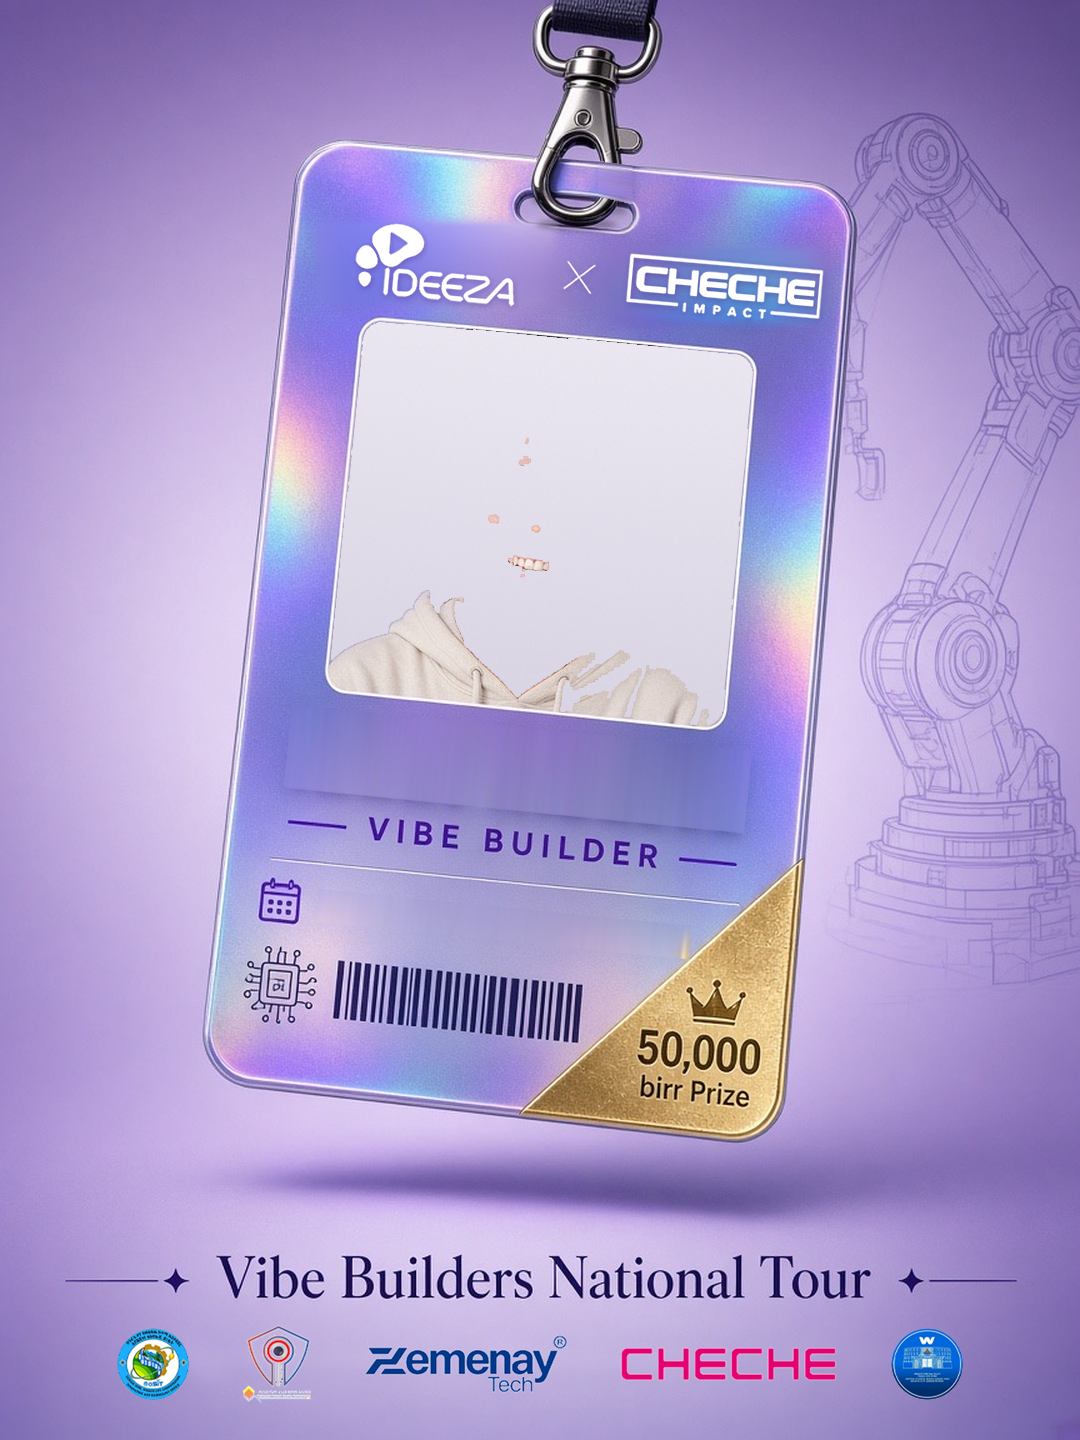
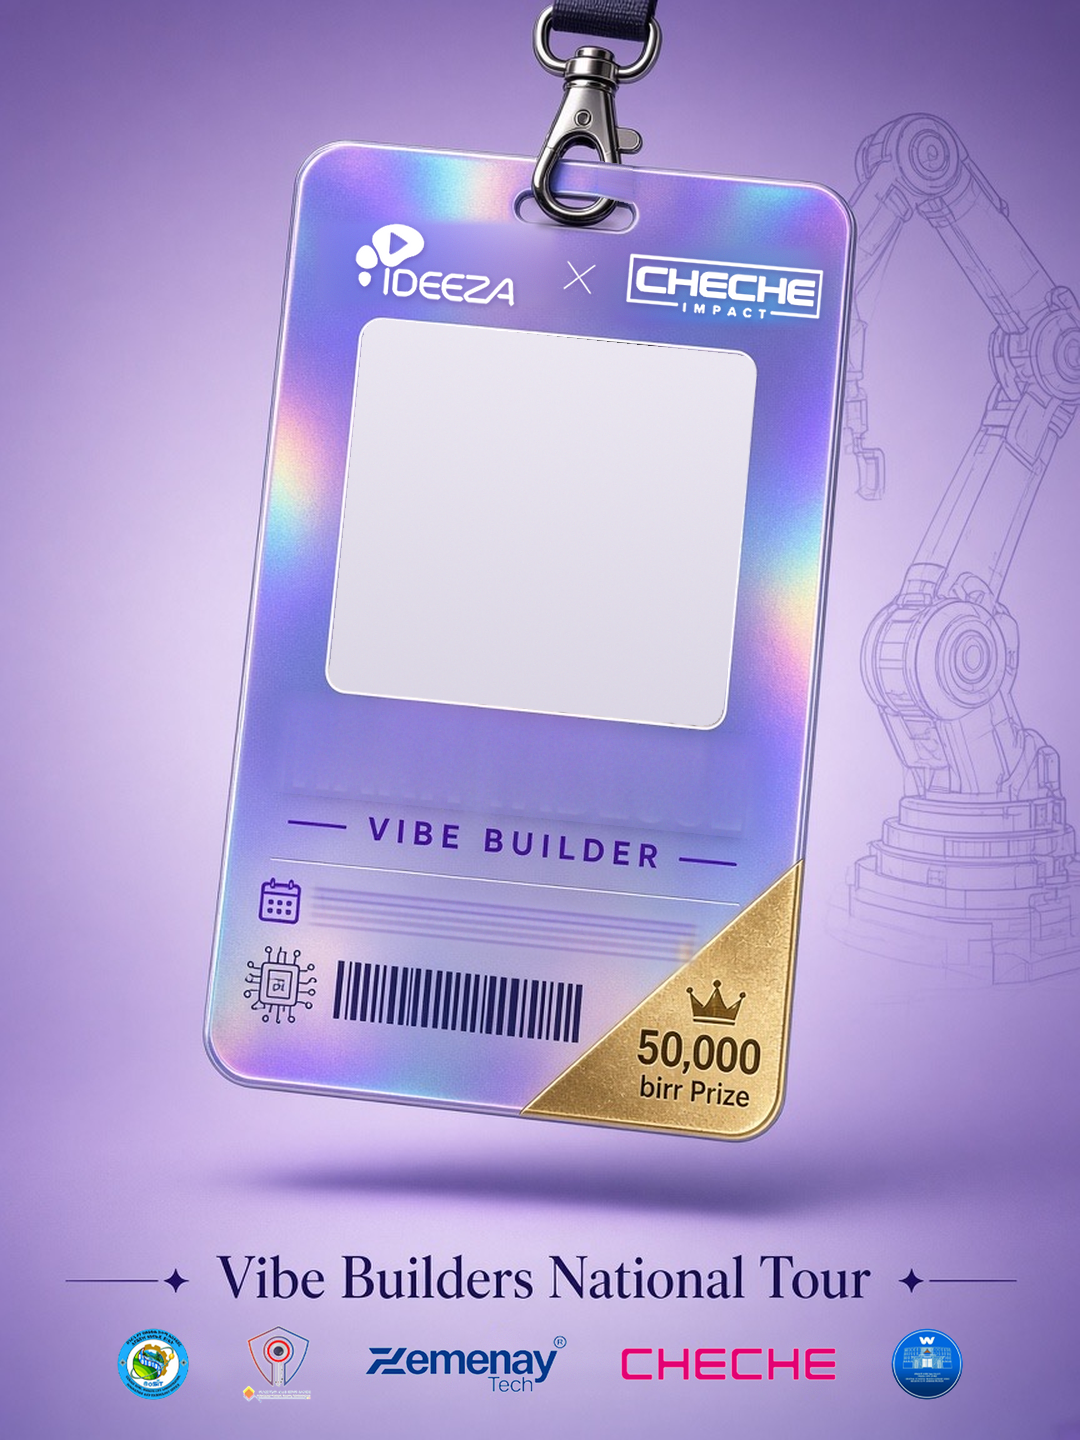
Polish template: full photo wipe, seamless name fill, larger type
Fill the entire photo-window interior with a clean lavender gradient
(no sample remnants), feather name/date column blends ≥12px into the
holo, and bump Anton name to ~72px with a soft cool-white glow.

diff --git a/socialcard/src/lib/drawBadge.ts b/socialcard/src/lib/drawBadge.ts
@@ -164,11 +164,19 @@ function drawName(ctx: CanvasRenderingContext2D, name: string) {
   ctx.font = `400 ${size}px Anton, "Arial Narrow", sans-serif`
   ctx.textAlign = 'center'
   ctx.textBaseline = 'middle'
-  ctx.shadowColor = 'rgba(40, 10, 80, 0.4)'
-  ctx.shadowBlur = 8
+  // Soft purple drop shadow (depth)
+  ctx.shadowColor = 'rgba(45, 15, 90, 0.38)'
+  ctx.shadowBlur = 10
   ctx.shadowOffsetX = 1
   ctx.shadowOffsetY = 3
-  ctx.fillStyle = '#ffffff'
+  // Slight cool-white + outer glow to match original holo print
+  ctx.fillStyle = '#f7f5ff'
+  ctx.fillText(label, 0, 0)
+  ctx.shadowColor = 'rgba(255, 255, 255, 0.45)'
+  ctx.shadowBlur = 6
+  ctx.shadowOffsetX = 0
+  ctx.shadowOffsetY = 0
+  ctx.fillStyle = '#fbfaff'
   ctx.fillText(label, 0, 0)
   ctx.restore()
 }

diff --git a/socialcard/src/config/badgeGeometry.ts b/socialcard/src/config/badgeGeometry.ts
@@ -12,10 +12,11 @@ export const PHOTO_WINDOW = {
   radius: 26,
 }
 
+/** Anton ~72 ≈ 62% badge width for "HANA TADESSE"; auto-shrink via maxWidth */
 export const NAME_SLOT = {
   center: [518.5, 764.5] as [number, number],
-  maxWidth: 520,
-  fontSize: 63,
+  maxWidth: 480,
+  fontSize: 72,
 }
 
 export const EVENT_SLOT = {

diff --git a/socialcard/scripts/make-template.py b/socialcard/scripts/make-template.py
@@ -78,123 +78,191 @@ def transform_pts(M: np.ndarray, pts: np.ndarray) -> np.ndarray:
     return (M @ hom.T).T
 
 
+def _rounded_rect_mask(
+    h: int, w: int, x0: int, y0: int, x1: int, y1: int, radius: int
+) -> np.ndarray:
+    mask = np.zeros((h, w), np.uint8)
+    cv2.rectangle(mask, (x0 + radius, y0), (x1 - radius, y1), 255, -1)
+    cv2.rectangle(mask, (x0, y0 + radius), (x1, y1 - radius), 255, -1)
+    for ccx, ccy in (
+        (x0 + radius, y0 + radius),
+        (x1 - radius, y0 + radius),
+        (x0 + radius, y1 - radius),
+        (x1 - radius, y1 - radius),
+    ):
+        cv2.circle(mask, (ccx, ccy), radius, 255, -1)
+    return mask
+
+
 def column_blend_fill(
     img: np.ndarray,
     mask: np.ndarray,
-    sample_pad: int = 10,
+    sample_pad: int = 14,
+    feather_px: int = 14,
+    y_forbid: tuple[int, int] | None = None,
 ) -> np.ndarray:
     """
-    For each column, lerp between clean pixels ABOVE and BELOW the mask
-    (sampled outside the mask, not from glyph edges). Matched noise + light blur.
+    Per-column lerp from clean holo above/below the core mask, then feather
+    (≥12px) into the surrounding gradient so no rectangular patch is visible.
+    Matched noise from local holo residuals.
+    y_forbid: optional (y0,y1) band where alpha is forced to 0 (e.g. photo window).
     """
-    out = img.copy()
     h, w = mask.shape
     ys, xs = np.where(mask > 0)
     if len(xs) == 0:
-        return out
-    x0, x1 = int(xs.min()), int(xs.max())
-    rng = np.random.default_rng(7)
-    src = img  # always sample from pre-edit pixels
+        return img.copy()
 
-    for x in range(x0, x1 + 1):
-        cols = np.where(mask[:, x] > 0)[0]
+    core = (mask > 0).astype(np.uint8)
+    kernel = cv2.getStructuringElement(
+        cv2.MORPH_ELLIPSE, (feather_px * 2 + 1, feather_px * 2 + 1)
+    )
+    expanded = cv2.dilate(core, kernel)
+    inv = np.where(core > 0, 0, 255).astype(np.uint8)
+    dist = cv2.distanceTransform(inv, cv2.DIST_L2, 5)
+    alpha = np.clip(1.0 - dist / float(feather_px), 0.0, 1.0)
+    alpha = alpha * (expanded > 0)
+    alpha = cv2.GaussianBlur(alpha.astype(np.float32), (0, 0), feather_px * 0.4)
+    alpha = np.clip(alpha, 0.0, 1.0)
+    if y_forbid is not None:
+        fy0, fy1 = y_forbid
+        alpha[fy0:fy1, :] = 0
+
+    work = img.astype(np.float32).copy()
+    src = img.astype(np.float32)
+    rng = np.random.default_rng(7)
+
+    x0, x1 = int(xs.min()), int(xs.max())
+    y_top_all = int(ys.min())
+    # Noise from holo flanks (left of name), not from photo window
+    flank_x0 = max(0, x0 - 60)
+    flank_x1 = max(flank_x0 + 1, x0 - 8)
+    flank_y0 = max(0, y_top_all - 4)
+    flank_y1 = min(h, y_top_all + 40)
+    strip = src[flank_y0:flank_y1, flank_x0:flank_x1]
+    if strip.size == 0:
+        strip = src[max(0, y_top_all - 8) : y_top_all, x0 : x1 + 1]
+    strip_blur = cv2.GaussianBlur(strip, (0, 0), 2.5)
+    residual = strip - strip_blur
+    noise_sigma = float(np.std(residual)) if residual.size else 2.0
+    noise_sigma = max(1.6, min(5.0, noise_sigma))
+
+    apply_xs = np.where(alpha.max(axis=0) > 0.01)[0]
+    for x in range(int(apply_xs.min()), int(apply_xs.max()) + 1):
+        cols = np.where(alpha[:, x] > 0.01)[0]
         if len(cols) == 0:
             continue
-        y_top, y_bot = int(cols[0]), int(cols[-1])
+        core_cols = np.where(core[:, x] > 0)[0]
+        if len(core_cols):
+            y_top, y_bot = int(core_cols[0]), int(core_cols[-1])
+        else:
+            y_top, y_bot = int(cols[0]), int(cols[-1])
+
         ya = max(0, y_top - sample_pad)
         yb = min(h - 1, y_bot + sample_pad)
-        # Ensure samples are outside mask
-        while ya > 0 and mask[ya, x] > 0:
-            ya -= 1
-        while yb < h - 1 and mask[yb, x] > 0:
+        if y_forbid is not None:
+            ya = max(ya, y_forbid[1])  # stay below forbidden band
+        while ya < y_top and (core[ya, x] > 0 or (y_forbid and ya < y_forbid[1])):
+            ya += 1
+        if ya >= y_top:
+            ya = max(0, y_top - 2)
+            if y_forbid is not None:
+                ya = max(ya, y_forbid[1])
+        while yb < h - 1 and core[yb, x] > 0:
             yb += 1
 
         def samp(y: int) -> np.ndarray:
-            yy0, yy1 = max(0, y - 1), min(h, y + 2)
-            xx0, xx1 = max(0, x - 1), min(w, x + 2)
+            yy0, yy1 = max(0, y - 2), min(h, y + 3)
+            # Prefer holo flanks if this column's above-sample sits on atypical chrome
+            xx0, xx1 = max(0, x - 3), min(w, x + 4)
             return src[yy0:yy1, xx0:xx1].reshape(-1, 3).mean(axis=0)
 
-        above = samp(ya)
+        # Side-aware above sample: mix column sample with left/right holo at same y
+        above_c = samp(ya)
+        xl = max(0, x0 - 40)
+        xr = min(w - 1, x1 + 40)
+        above_l = src[ya, xl : xl + 8].mean(axis=0) if xl + 8 <= x0 else above_c
+        above_r = src[ya, xr - 8 : xr].mean(axis=0) if xr - 8 >= x1 else above_c
+        above = above_c * 0.5 + above_l * 0.25 + above_r * 0.25
         below = samp(yb)
+
         span = max(1, y_bot - y_top)
         for y in cols:
-            t = (y - y_top) / span
-            # Ease endpoints toward the nearer clean sample
+            if y <= y_top:
+                t = 0.0
+            elif y >= y_bot:
+                t = 1.0
+            else:
+                u = (y - y_top) / span
+                t = u * u * (3 - 2 * u)
             col = above * (1.0 - t) + below * t
-            noise = rng.normal(0, 1.4, 3)
-            out[y, x] = np.clip(col + noise, 0, 255)
+            # Low-frequency holo drift from flanks at this y
+            if xl + 8 <= x0:
+                side = src[y, xl : xl + 8].mean(axis=0)
+                col = col * 0.7 + side * 0.3
+            noise = rng.normal(0, noise_sigma, 3)
+            filled = np.clip(col + noise, 0, 255)
+            a = float(alpha[y, x])
+            work[y, x] = filled * a + src[y, x] * (1.0 - a)
 
-    blur = cv2.GaussianBlur(out, (0, 0), 0.85)
-    feather = cv2.GaussianBlur(mask, (0, 0), 1.0)
-    m = (feather.astype(np.float32) / 255.0)[..., None]
-    blended = (blur.astype(np.float32) * m + out.astype(np.float32) * (1.0 - m)).astype(
-        np.uint8
-    )
-    blended[mask == 0] = img[mask == 0]
-    return blended
+    blur = cv2.GaussianBlur(work, (0, 0), 0.85)
+    a3 = alpha[..., None]
+    strong = np.clip((a3 - 0.25) / 0.75, 0, 1)
+    work = blur * strong * 0.55 + work * (1.0 - strong * 0.55)
+    out = np.clip(work, 0, 255).astype(np.uint8)
+    out[alpha < 0.01] = img[alpha < 0.01]
+    return out
 
 
 def fill_photo_window(
-    img: np.ndarray, x0: int, y0: int, x1: int, y1: int, inset: int = 4
+    img: np.ndarray, x0: int, y0: int, x1: int, y1: int, border_keep: int = 4
 ) -> np.ndarray:
-    """Fill photo interior with light lavender gradient; keep white border."""
+    """
+    Fill the ENTIRE photo-window interior with a clean light backdrop.
+    Geometric rounded-rect fill (no flood-fill islands), then restore the
+    original rounded white border ring from the source.
+    """
     out = img.copy()
-    gray = cv2.cvtColor(img, cv2.COLOR_BGR2GRAY)
+    h_r, w_r = y1 - y0, x1 - x0
 
-    # Interior = everything inside the bright border ring (not the border itself)
-    roi = gray[y0:y1, x0:x1]
-    border = (roi > 200).astype(np.uint8) * 255
-    border = cv2.morphologyEx(border, cv2.MORPH_CLOSE, np.ones((5, 5), np.uint8))
-    # Shrink border to get interior; also force a rounded rect fallback
-    interior = np.zeros_like(border)
-    # Seed fill from center for pixels that are NOT bright border
-    h_r, w_r = roi.shape
-    seed = (w_r // 2, h_r // 2)
-    flood = border.copy()
-    # Invert: non-border becomes fillable; protect actual white border
-    fillable = np.where(border > 0, 0, 255).astype(np.uint8)
-    # Also treat near-white chrome just inside as border (2px)
-    fillable = cv2.erode(fillable, np.ones((3, 3), np.uint8), iterations=1)
-    mask_ff = np.zeros((h_r + 2, w_r + 2), np.uint8)
-    ff = fillable.copy()
-    cv2.floodFill(ff, mask_ff, seed, 128)
-    interior = (ff == 128).astype(np.uint8) * 255
-    if interior.sum() < 1000:
-        # Fallback rounded rect
-        ix0, iy0 = inset, inset
-        ix1, iy1 = w_r - inset, h_r - inset
-        radius = 18
-        cv2.rectangle(interior, (ix0 + radius, iy0), (ix1 - radius, iy1), 255, -1)
-        cv2.rectangle(interior, (ix0, iy0 + radius), (ix1, iy1 - radius), 255, -1)
-        for ccx, ccy in (
-            (ix0 + radius, iy0 + radius),
-            (ix1 - radius, iy0 + radius),
-            (ix0 + radius, iy1 - radius),
-            (ix1 - radius, iy1 - radius),
-        ):
-            cv2.circle(interior, (ccx, ccy), radius, 255, -1)
+    # Interior: everything inside the white border
+    ix0, iy0 = border_keep, border_keep
+    ix1, iy1 = w_r - border_keep, h_r - border_keep
+    radius = max(12, 22 - border_keep)
+    interior = _rounded_rect_mask(h_r, w_r, ix0, iy0, ix1, iy1, radius)
 
-    # #ECE8F2 → #D9D4E3 in BGR
+    # #ECE8F2 → #D9D4E3 in BGR (studio backdrop)
     c0 = np.array([0xF2, 0xE8, 0xEC], dtype=np.float32)
     c1 = np.array([0xE3, 0xD4, 0xD9], dtype=np.float32)
 
-    hh, ww = h_r, w_r
-    grad = np.zeros((hh, ww, 3), np.float32)
-    for i in range(hh):
-        t = i / max(1, hh - 1)
-        row = c0 * (1 - t) + c1 * t
+    grad = np.zeros((h_r, w_r, 3), np.float32)
+    for i in range(h_r):
+        t = i / max(1, h_r - 1)
+        # Slight top-left bias like the original photo backdrop
+        row = c0 * (1 - t * 0.85) + c1 * (t * 0.85)
         grad[i, :] = row
-    yy, xx = np.mgrid[0:hh, 0:ww]
-    nx = (xx / max(1, ww - 1) - 0.5) * 2
-    ny = (yy / max(1, hh - 1) - 0.5) * 2
+    yy, xx = np.mgrid[0:h_r, 0:w_r]
+    nx = (xx / max(1, w_r - 1) - 0.45) * 2
+    ny = (yy / max(1, h_r - 1) - 0.4) * 2
     r = np.clip(np.sqrt(nx * nx + ny * ny), 0, 1)[..., None]
-    grad = grad * (1 - 0.05 * r) + c1 * (0.05 * r)
+    grad = grad * (1 - 0.07 * r) + c1 * (0.07 * r)
     rng = np.random.default_rng(3)
-    grad = np.clip(grad + rng.normal(0, 1.6, grad.shape), 0, 255)
+    grad = np.clip(grad + rng.normal(0, 1.4, grad.shape), 0, 255)
 
-    patch = out[y0:y1, x0:x1]
+    patch = out[y0:y1, x0:x1].copy()
     local = interior > 0
     patch[local] = grad.astype(np.uint8)[local]
+
+    # Restore original white border ring (bright perimeter), never sample face
+    gray = cv2.cvtColor(img[y0:y1, x0:x1], cv2.COLOR_BGR2GRAY)
+    # Ring = inside outer rounded window, outside interior
+    outer = _rounded_rect_mask(h_r, w_r, 1, 1, w_r - 2, h_r - 2, 24)
+    ring = (outer > 0) & (interior == 0)
+    # Only restore pixels that look like the white chrome border
+    bright = gray > 190
+    restore = ring & bright
+    orig_patch = img[y0:y1, x0:x1]
+    patch[restore] = orig_patch[restore]
+
     out[y0:y1, x0:x1] = patch
     return out
 
@@ -398,12 +466,12 @@ def main() -> None:
 
     # --- Photo window ---
     before_photo = edited.copy()
-    edited = fill_photo_window(edited, px0, py0, px1, py1, inset=4)
+    edited = fill_photo_window(edited, px0, py0, px1, py1, border_keep=4)
     photo_edit = (
         cv2.absdiff(edited, before_photo).max(axis=2) > 0
     ).astype(np.uint8) * 255
 
-    # --- Name ---
+    # --- Name (feathered column blend — no visible rectangle) ---
     name_mask = detect_name_mask(ugray, px0, py1, px1)
     name_mask = cv2.bitwise_and(name_mask, badge_mask_u)
     print("name mask px", int(name_mask.sum() / 255))
@@ -416,7 +484,17 @@ def main() -> None:
             int(nxs.max()),
             int(nys.max()),
         )
-    edited = column_blend_fill(edited, name_mask, sample_pad=12)
+    before_name = edited.copy()
+    edited = column_blend_fill(
+        edited,
+        name_mask,
+        sample_pad=14,
+        feather_px=16,
+        y_forbid=(0, py1 + 2),  # never feather into the photo window
+    )
+    name_edit = (
+        cv2.absdiff(edited, before_name).max(axis=2) > 0
+    ).astype(np.uint8) * 255
 
     # --- Event line text (keep calendar) ---
     event_mask, event_geo = detect_event_mask(ugray, px0, py1, px1)
@@ -431,9 +509,17 @@ def main() -> None:
             int(exs.max()),
             int(eys.max()),
         )
-    edited = column_blend_fill(edited, event_mask, sample_pad=10)
+    before_event = edited.copy()
+    edited = column_blend_fill(
+        edited, event_mask, sample_pad=12, feather_px=10
+    )
+    event_edit = (
+        cv2.absdiff(edited, before_event).max(axis=2) > 0
+    ).astype(np.uint8) * 255
 
-    edit_u = cv2.bitwise_or(photo_edit, cv2.bitwise_or(name_mask, event_mask))
+    edit_u = cv2.bitwise_or(
+        photo_edit, cv2.bitwise_or(name_edit, event_edit)
+    )
     edit_u = cv2.bitwise_and(edit_u, badge_mask_u)
     # Tiny dilate for warp interpolation; keep clear of VIBE BUILDER band
     edit_u = cv2.dilate(edit_u, np.ones((2, 2), np.uint8), iterations=1)
@@ -507,8 +593,9 @@ def main() -> None:
     tl, tr, br, bl = photo_corners
     pw = float(np.linalg.norm(tr - tl))
     ph = float(np.linalg.norm(bl - tl))
-    # Cap-height of HANA TADESSE ≈ 60px; Anton renders caps ≈ fontSize
-    name_font = int(round(max(58, min(70, name_h * 0.95))))
+    # Anton ~72 ≈ 62% of badge width for "HANA TADESSE"; taller than prior 63
+    name_font = 72
+    name_max_w = 480
 
     # Prefer bbox centers measured on the source (stable vs mask padding)
     gsrc = gray
@@ -521,7 +608,6 @@ def main() -> None:
             [(nxs_s.min() + nxs_s.max()) / 2 + 280, (nys_s.min() + nys_s.max()) / 2 + 735],
             dtype=np.float64,
         )
-        name_font = int(round(max(58, min(70, (nys_s.max() - nys_s.min() + 1) * 1.05))))
 
     eb = gsrc[900:945, 360:750]
     ed = (eb < 90).astype(np.uint8) * 255
@@ -551,7 +637,7 @@ def main() -> None:
         },
         "name": {
             "center": [round(float(name_c[0]), 2), round(float(name_c[1]), 2)],
-            "maxWidth": 520,
+            "maxWidth": name_max_w,
             "fontSize": name_font,
         },
         "eventLine": {
